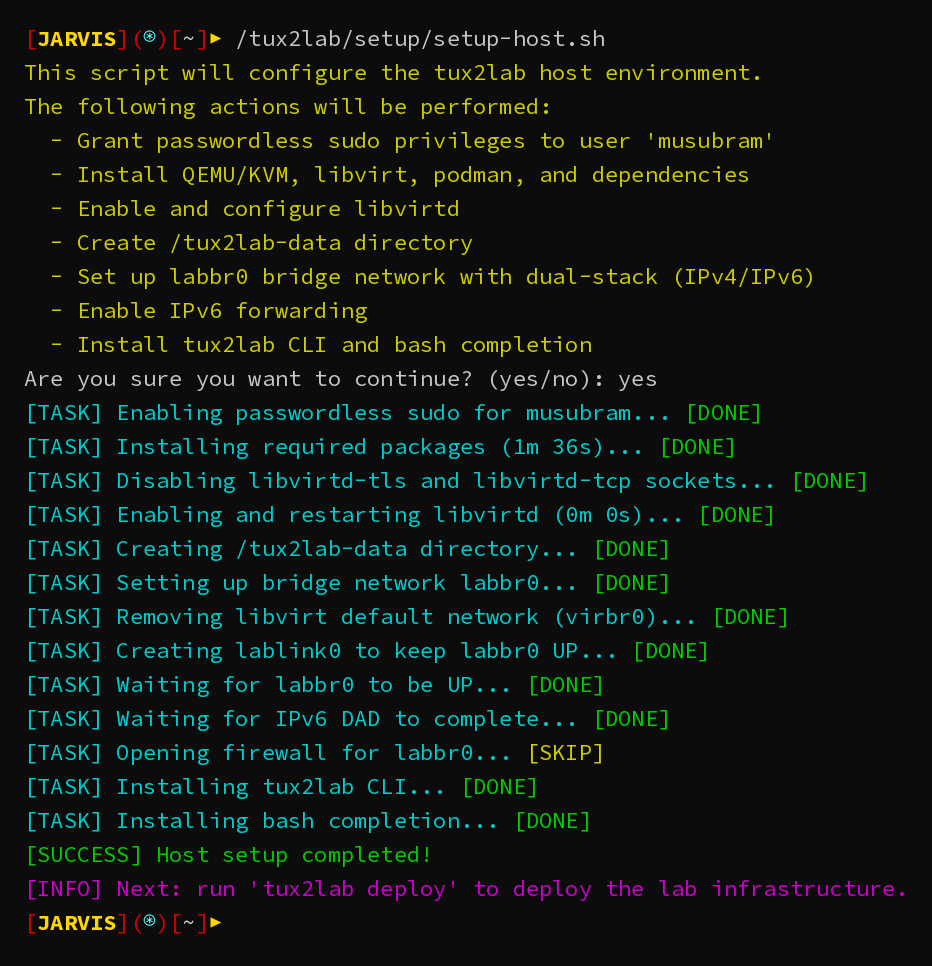
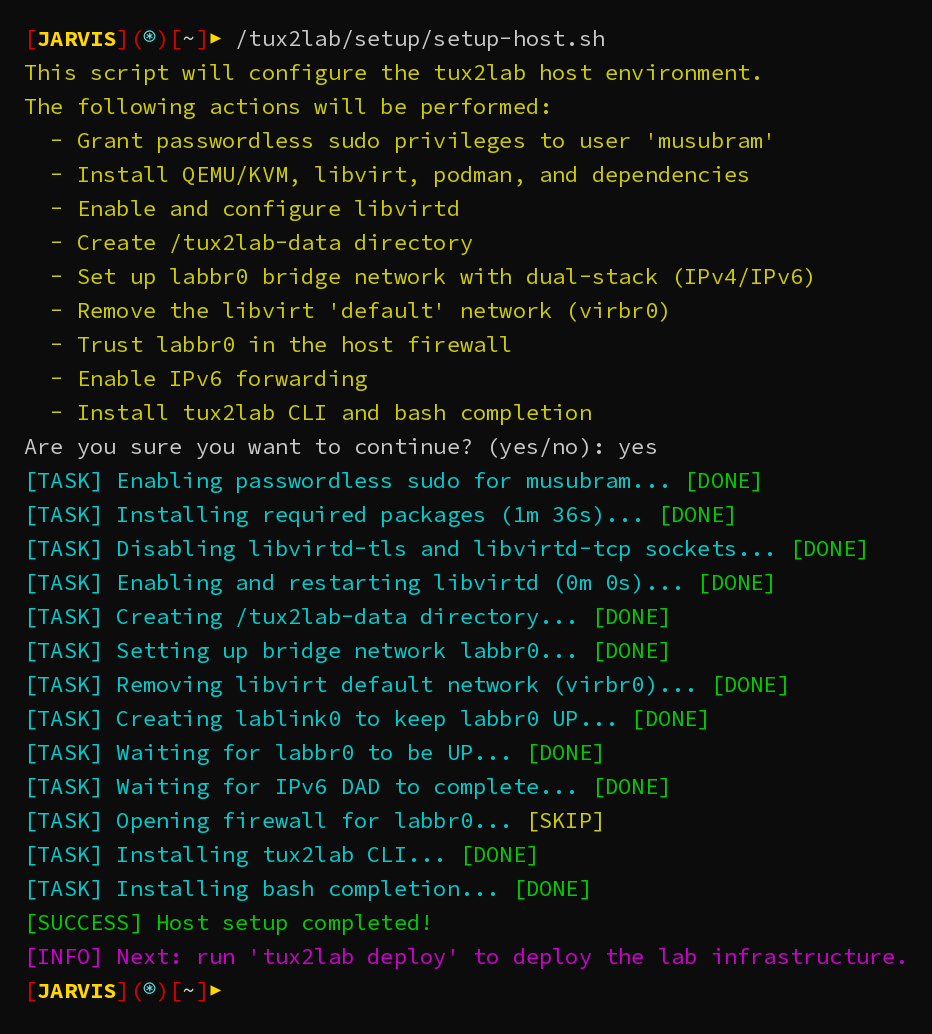
Handle end of input at the setup prompt and list all host changes
Ctrl-D or a closed stdin used to exit silently, and the banner did not
mention removing the default libvirt network or trusting labbr0.

Changed region(s): [[0.0311, 0.0311, 0.8712, 0.9627], [0.8401, 0.4658, 0.9335, 0.559], [0.7779, 0.9006, 0.9646, 0.9317]]

diff --git a/docs/render-scripts/render-setup-host.py b/docs/render-scripts/render-setup-host.py
@@ -10,6 +10,8 @@ lines.append(whole("  - Install QEMU/KVM, libvirt, podman, and dependencies", YE
 lines.append(whole("  - Enable and configure libvirtd", YELLOW))
 lines.append(whole("  - Create /tux2lab-data directory", YELLOW))
 lines.append(whole("  - Set up labbr0 bridge network with dual-stack (IPv4/IPv6)", YELLOW))
+lines.append(whole("  - Remove the libvirt 'default' network (virbr0)", YELLOW))
+lines.append(whole("  - Trust labbr0 in the host firewall", YELLOW))
 lines.append(whole("  - Enable IPv6 forwarding", YELLOW))
 lines.append(whole("  - Install tux2lab CLI and bash completion", YELLOW))
 lines.append(whole("Are you sure you want to continue? (yes/no): yes", DEFAULT))
